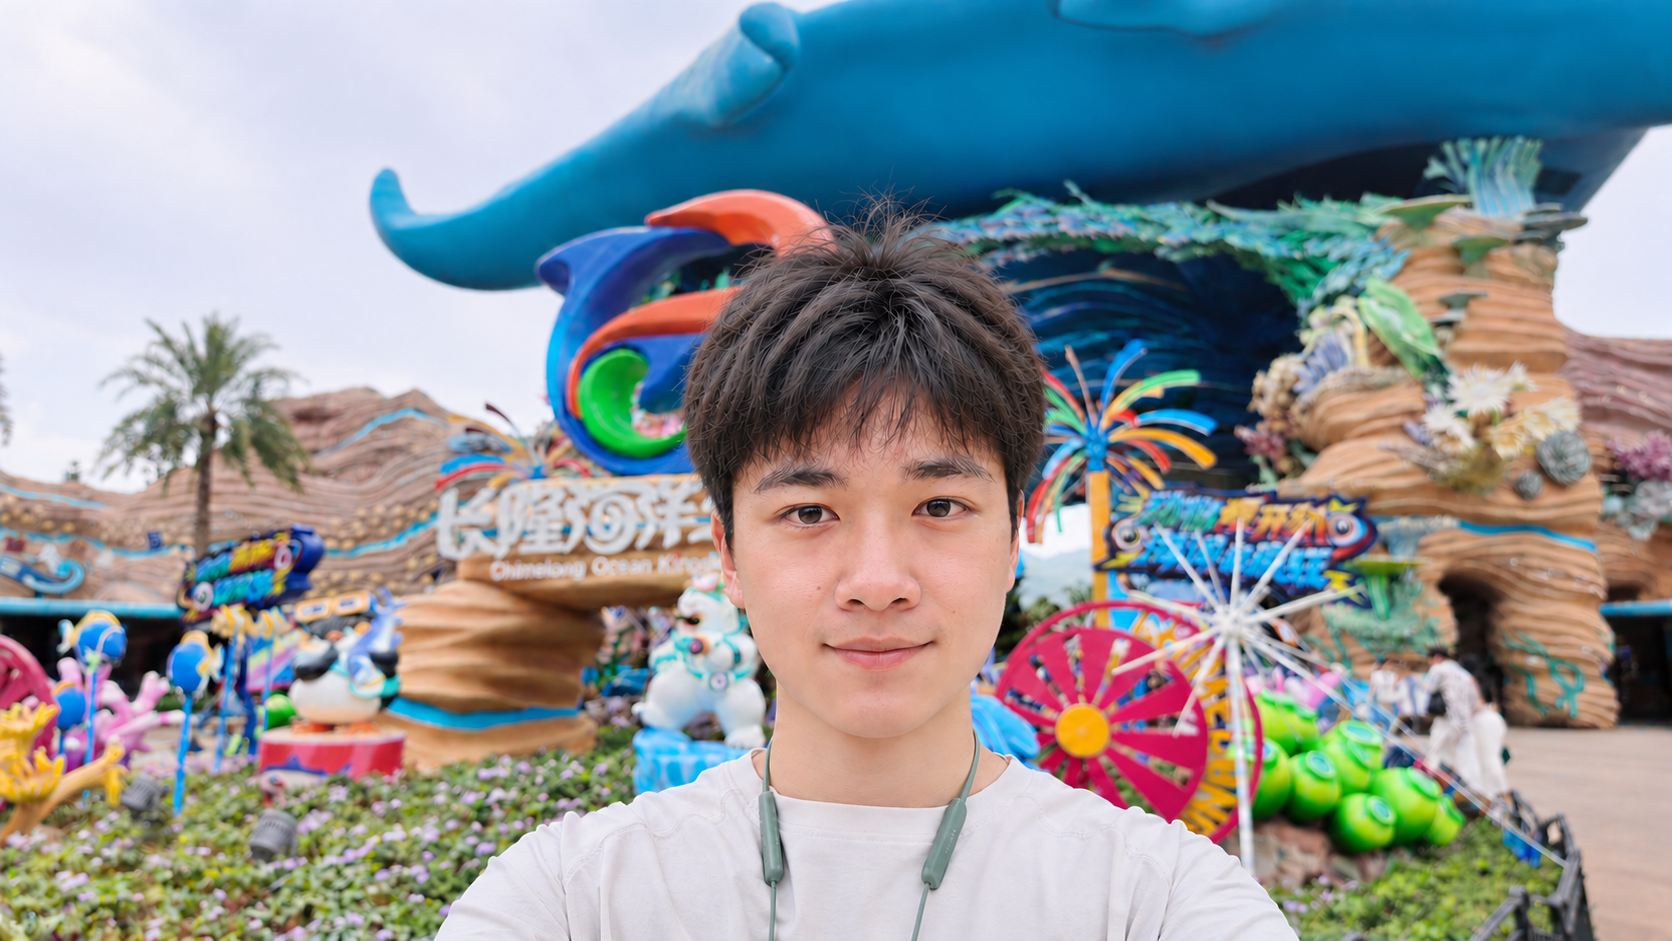
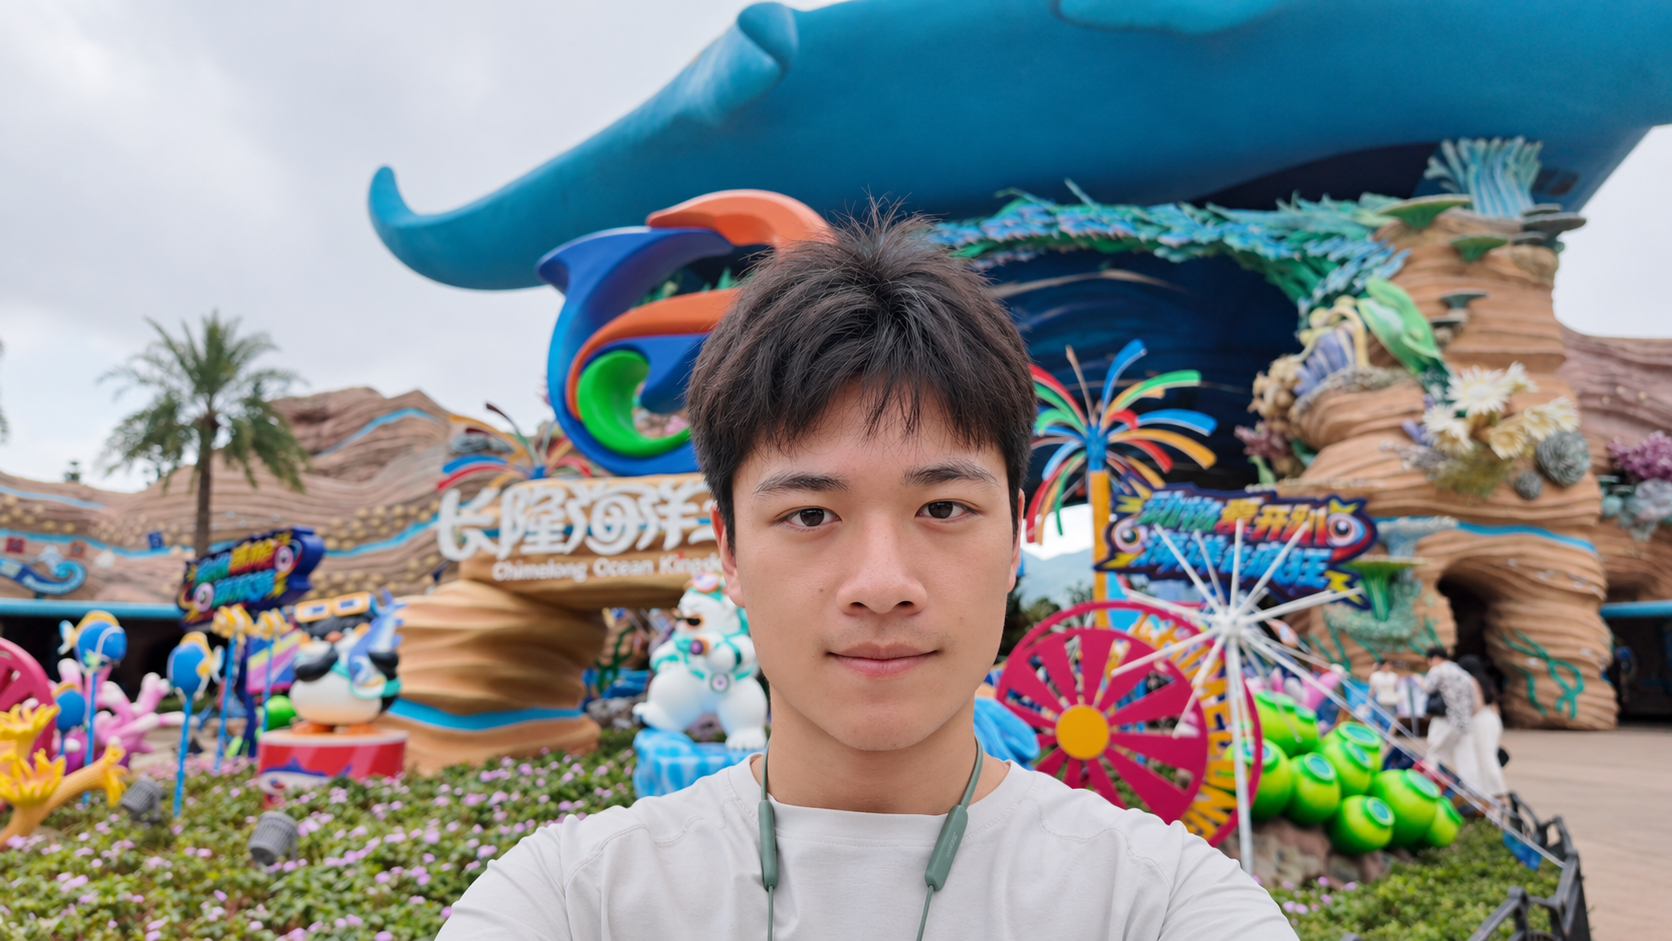
Replace profile portrait with updated photo

diff --git a/index.html b/index.html
@@ -16,7 +16,7 @@ section{margin-top:44px}.section-heading{display:flex;align-items:center;gap:12p
 <p class="lead"><span lang="zh-CN">我就读于中山大学智能工程学院智能科学与技术专业，2024 级。研究兴趣包括具身智能、机器人、任务驱动的三维场景生成，以及视觉—语言—动作模型。</span><span lang="en">I study Intelligent Science and Technology at Sun Yat-sen University, having enrolled in 2024. My interests include embodied AI, robotics, task-oriented 3D scene generation, and vision–language–action models.</span></p>
 <p class="lead"><span lang="zh-CN">目前，我关注跨房间长任务中的场景布局、动作空间和连续可达性，希望让生成的环境更好地支持机器人完成任务。欢迎通过邮件交流相关研究。</span><span lang="en">My current work explores scene layout, action spaces, and continuous reachability for long-horizon tasks across multiple rooms. I am interested in environments that better support robot tasks. Feel free to email me to discuss related research.</span></p>
 <div class="actions"><a href="mailto:a2748327036@outlook.com"><span lang="zh-CN">电子邮箱 ↗</span><span lang="en">Email ↗</span></a><a href="https://github.com/Although-now">GitHub ↗</a><a href="#research"><span lang="zh-CN">当前研究 ↓</span><span lang="en">Current research ↓</span></a></div><a class="email notranslate" translate="no" href="mailto:a2748327036@outlook.com">a2748327036@outlook.com</a></div>
-<aside class="aside"><img class="profile-photo notranslate" translate="no" src="portrait.png" alt="赵远征 / Yuanzheng Zhao" width="238" height="240" fetchpriority="high"><h2><span lang="zh-CN">研究方向</span><span lang="en">Research interests</span></h2><ol class="interests"><li><span lang="zh-CN">具身智能</span><span lang="en">Embodied AI</span></li><li><span lang="zh-CN">三维场景生成</span><span lang="en">3D scene generation</span></li><li><span lang="zh-CN">跨房间长任务</span><span lang="en">Long-horizon robotics</span></li><li><span lang="zh-CN">视觉—语言—动作模型</span><span lang="en">Vision–language–action</span></li></ol></aside></div>
+<aside class="aside"><img class="profile-photo notranslate" translate="no" src="portrait.png?v=20261107" alt="赵远征 / Yuanzheng Zhao" width="238" height="240" fetchpriority="high"><h2><span lang="zh-CN">研究方向</span><span lang="en">Research interests</span></h2><ol class="interests"><li><span lang="zh-CN">具身智能</span><span lang="en">Embodied AI</span></li><li><span lang="zh-CN">三维场景生成</span><span lang="en">3D scene generation</span></li><li><span lang="zh-CN">跨房间长任务</span><span lang="en">Long-horizon robotics</span></li><li><span lang="zh-CN">视觉—语言—动作模型</span><span lang="en">Vision–language–action</span></li></ol></aside></div>
 <section id="research"><h2 class="section-heading"><span lang="zh-CN">当前研究</span><span lang="en">Current research</span></h2><article class="project"><div class="project-art"><img src="project-diagram.svg" alt=""><p><span lang="zh-CN">跨房间任务空间 · 概念示意</span><span lang="en">Multi-room task spaces · Concept sketch</span></p></div><div><div class="tags"><span class="tag"><span lang="zh-CN">具身智能 / 场景生成</span><span lang="en">Embodied AI / Scene generation</span></span><span class="status"><span lang="zh-CN">进行中</span><span lang="en">Work in progress</span></span></div><h3><span lang="zh-CN">面向跨房间长任务的场景生成</span><span lang="en">Task-oriented scene generation for multi-room, long-horizon tasks</span></h3><p><span lang="zh-CN">围绕机器人的任务需求，联合考虑任务物体、家具布局、操作空间与跨房间路线，探索更具可操作性的场景生成方法。</span><span lang="en">Exploring scene generation that accounts for task objects, furniture layouts, operation spaces, and cross-room routes together, with the aim of making environments more usable for robot tasks.</span></p><p><span lang="zh-CN">重点关注：基础功能布局、任务相关空间的持续保护，以及随携物状态变化的连续任务链验证。</span><span lang="en">Key interests include functional base layouts, preserving task-relevant spaces, and validating task chains as the robot's carried-object state changes.</span></p><p class="note"><span lang="zh-CN">当前侧重布局与简化几何验证；机械臂运动规划和机器人物理执行仍需独立验证。</span><span lang="en">Current validation focuses on layouts and simplified geometry. Arm motion planning and physical robot execution require separate validation.</span></p></div></article></section>
 <section id="education"><h2 class="section-heading"><span lang="zh-CN">教育背景</span><span lang="en">Education</span></h2><div class="education"><div class="date"><span lang="zh-CN">2024 — 至今</span><span lang="en">2024 — Present</span></div><div><h3><span lang="zh-CN">中山大学</span><span lang="en">Sun Yat-sen University</span></h3><p><span lang="zh-CN">智能工程学院 · 智能科学与技术</span><span lang="en">School of Intelligent Systems Engineering<br>Intelligent Science and Technology</span></p></div></div></section>
 <section id="contact"><h2 class="section-heading"><span lang="zh-CN">联系我</span><span lang="en">Contact</span></h2><div class="contact"><div><h3><span lang="zh-CN">欢迎交流</span><span lang="en">Let's connect</span></h3><p><span lang="zh-CN">欢迎讨论具身智能、机器人与场景生成。</span><span lang="en">For conversations about embodied AI, robotics, and scene generation.</span></p></div><a class="notranslate" translate="no" href="mailto:a2748327036@outlook.com">a2748327036@outlook.com</a></div></section>
